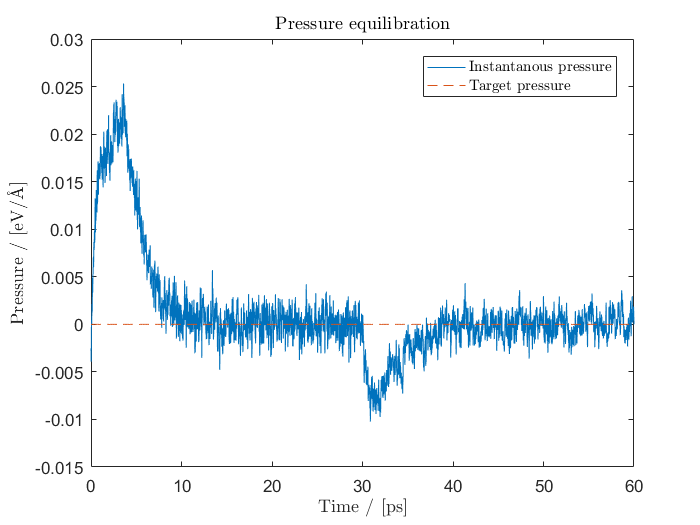
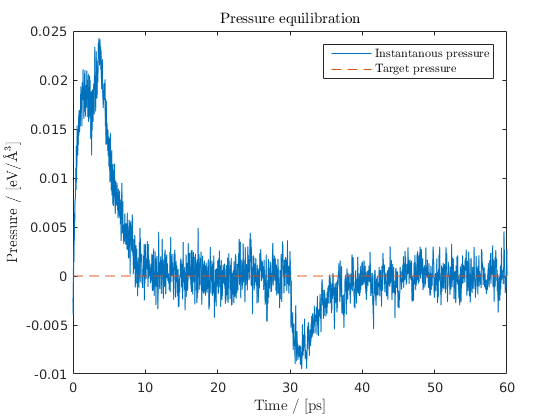
Worked on the report and fixedthe pressure plot unit on the y-axis in task4. Also fixed a minor bug in task4.

diff --git a/report/report.tex b/report/report.tex
@@ -125,10 +125,10 @@ After equilibration to 700$^\circ$ C and 1 atm the average temperature obtained 
 
 \noindent One interesting thermal property of a material is the heat capacity. We can calculate it from fluctuations in either the kinetic or the potential energies, as
 \begin{equation}
-C_v=\frac{3Nk_B}{2}\left[1-\frac{2}{3Nk_b^2T^2}\left\langle \left(\delta \epsilon_{kin}\right)^2  \right\rangle_{NVE} \right]^{-1} \text{or}
+C_v=\frac{3Nk_B}{2}\left[1-\frac{2}{3Nk_b^2T^2}\left\langle \left(\delta \epsilon_{kin}\right)^2  \right\rangle_{NVE} \right]^{-1}
 \label{eq:prob5-1}
 \end{equation}
-
+or
 \begin{equation}
 C_v=\frac{3Nk_B}{2}\left[1-\frac{2}{3Nk_b^2T^2}\left\langle \left(\delta \epsilon_{pot}\right)^2  \right\rangle_{NVE} \right]^{-1}.
 \label{eq:prob5-2}
@@ -147,7 +147,7 @@ From our MD simulations we obtained the values found in {Table \ref{tab:prob5}} 
 	\label{tab:prob5}
 \end{table}
 
-From experiments the heat capacity for aluminium in a solid is found to be $\unit[0.900]{J/g K}$ \cite{al_heat_solid} and for the liquid $\unit[1.18]{J/g K}$ \cite{al_heat_liquid}. For the chunk of 256 Al atoms in this simulation, this correspond to approx. $\unit[0.0644]{eV/K}$ and $\unit[0.0844]{eV/K}$. Looking at Table \ref{tab:prob5} above we see that this aligns very well to the values obtained through Eq. \eqref{eq:prob5-1} and \eqref{eq:prob5-2} in the simulation. However, we also notice that using the potential energy fluctuations have given more accurate results. We are not sure why this seems to be the case, but we have also noted that results can fluctuate some between runs which might be an explanation.
+From experiments the heat capacity for aluminium in a solid is found to be $\unit[0.900]{J/g K}$ \cite{al_heat_solid} and for the liquid $\unit[1.18]{J/g K}$ \cite{al_heat_liquid}. For the chunk of 256 Al atoms in this simulation, this corresponds to approx. $\unit[0.0644]{eV/K}$ and $\unit[0.0844]{eV/K}$. Looking at Table \ref{tab:prob5} above we see that this aligns very well to the values obtained through Eq. \eqref{eq:prob5-1} and \eqref{eq:prob5-2} in the simulation. However, we also notice that using the potential energy fluctuations have given more accurate results. We are not sure why this seems to be the case, but we have also noted that results can fluctuate somewhat between runs which might be an explanation.
 
 \section*{Problem 6}
 
@@ -155,7 +155,7 @@ Instead of using the fluctuations in the energies, the heat capacity can be calc
 \begin{equation}
 	C_V = \left( \frac{\partial E}{\partial T} \right)_{N,V}
 \end{equation}
-which we calculate by approximating it with a difference quota. To do this we first equilibrate the system temperature and pressure to the target values, i.e. 500$^\circ$ C or 700$^\circ$ C for the temperature and 1 atm for the pressure. Once this is done we equilibrate only the temperature to the target with a small difference $\Delta T$. After this second equilibration the system is simulated for some time and averages of the temperature and energy are computed. This is repeated for the same but negative $\Delta T$. Approximating the derivative with the difference quotient we obtain the results found in the table below. The parameter $\Delta T$ was chosen to be 5$^\circ$ C.
+which we calculate by approximating it with a difference quotient. To do this we first equilibrate the system temperature and pressure to the target values, i.e. 500$^\circ$ C or 700$^\circ$ C for the temperature and 1 atm for the pressure. Once this is done we equilibrate only the temperature to the target with a small difference $\Delta T$. After this second equilibration the system is simulated for some time and averages of the temperature and energy are computed. This is repeated for the same but negative $\Delta T$. Approximating the derivative with the difference quotient we obtain the results found in the table below. The parameter $\Delta T$ was chosen to be 5$^\circ$ C.
 
 \begin{table}[h!]
 	\centering	
@@ -184,7 +184,7 @@ The radial distribution function is a measure of the radial distribution of the 
 \label{fig:radial}
 \end{figure}
 
-Normally the radial distribution would converge to unity as the radius tends to infinity as over large distances the atoms are almost randomly distributed, this is not something we can see in out figure and is not expected. This is due to that our system is limited in size and we therefore can't find any particles for all distances as we have already counted that particle in the opposite direction.
+Normally the radial distribution would converge to unity as the radius tends to infinity as over large distances the atoms are almost randomly distributed. This is not something we can see in out figure and is not expected. This is due to that our system is limited in size and we therefore can't find any particles for all distances as we have already counted that particle in the opposite direction.
 
 With Matlab we find that the first local minimum is localized at $r_m = 3.7797$, giving us the coordination number $I(r_m) \approx 12.928$. The expected coordination number for an fcc structure is 12 \cite{al_coordination_nbr}, but our result is slightly higher. If the system was solid we would expect a result closer to 12.
 
@@ -195,23 +195,20 @@ One way to see that the crystal is properly melted is by studying the scattering
 \begin{equation}
 S(\mathbf{q})=\frac{1}{N}\left<|\sum_{i=1}^{N}e^{i\mathbf{q}\cdot \mathbf{r_i}(t)}|^2\right>\cite{lecnotes},
 \end{equation}
-
 where $\mathbf{q}$ are the reciprocal vectors and $r_i(t)$ is the trajectories of the particles. The reciprocal lattice is initialized on a grid with side-length $2\pi/L$, where $L$ is the cell length, so that the reciprocal lattice can be written as,
-$$
+\begin{equation}
 	\mathbf{q}=\frac{2\pi}{L}(n_x,n_y,n_z),
-$$
-
-where $n_x$, $n_y$ and $n_z$ are some integers. For our simulation we use $n_x=n_y=n_z=\pm40$, so the lattice points are some combination of $3$ numbers between $-40$ to $40$.
+\end{equation}
+where $n_x$, $n_y$ and $n_z$ are some integers. For our simulation we use $n_x, n_y, n_z \in [-40, 40]$, so the lattice points are some combination of $3$ numbers between $-40$ to $40$.
 
 The results of this simulation can be seen in (Fig.~\ref{fig:StaticStructure}) where we only consider the length of the reciprocal vectors, not their direction, i.e. we have plotted the spherical mean.
 
-In a crystalline solid the expression given above will only contain delta-function distribution contributions for the reciprocal vectors. But for a liquid we have a continuous contribution which depend on the radial distribution seen in Problem 7. Using this distribution we can write the form factor as,
-
+In a crystalline solid the expression given above will only contain delta-function distribution contributions for the reciprocal vectors. But for a liquid we have a continuous contribution which depend on the radial distribution seen in Problem 7. Using this distribution we can write the form factor as
 \begin{equation}
 S(q)= 1+ 4\pi n \int r^2\left[g(r)-1\right]\frac{\sin{qr}}{qr}dr.
 \end{equation}
 
-Direct evaluation of this integral, for the same $q$ values as the simulation, using only half maximum distance in (Fig. \ref{fig:radial}) in the radial integral to not get boundary condition problems, gives a very similar result to the $q-$grid evaluation as seen in (Fig.~\ref{fig:StaticStructure}).
+The result of direct evaluation of this integral, for the same $q$ values as in the simulation, can be found in Fig.~\ref{fig:radial} (left). Only half of the maximum distance is used in the radial integral to not get boundary condition problems. This gives a very similar result to the $q$-grid evaluation as seen in Fig.~\ref{fig:StaticStructure} (right).
 
 \begin{figure}[H]
     \centering
@@ -232,7 +229,7 @@ Direct evaluation of this integral, for the same $q$ values as the simulation, u
 
 \vfill
 \bibliography{references}
-\bibliographystyle{plain} %TODO set bibstyle
+\bibliographystyle{plain}
 
 \newpage
 \appendix
@@ -255,12 +252,16 @@ Direct evaluation of this integral, for the same $q$ values as the simulation, u
 
 \subsection{\texttt{Task7/MD\_main.c}}
 \lstinputlisting[language=c, numbers=left]{../code/Task7/MD_main.c}
+\subsection{\texttt{Task7/plot\_histogram.m}}
 \lstinputlisting[language=matlab,numbers=left]{../code/Task7/plot_histogram.m}
 
 \subsection{\texttt{Task8/MD\_main.c}}
 \lstinputlisting[language=c, numbers=left]{../code/Task8/MD_main.c}
+\subsection{\texttt{Task8/plot\_reciprocal.m}}
 \lstinputlisting[language=matlab,numbers=left]{../code/Task8/plot_reciprocal.m}
+\subsection{\texttt{Task8/plot\_integral.m}}
 \lstinputlisting[language=matlab,numbers=left]{../code/Task8/plot_integral.m}
+\subsection{\texttt{Task8/alpotential.m}}
 \lstinputlisting[language=c, numbers=left]{../code/Task8/alpotential.c}
 
 \end{document}

diff --git a/code/Task4/MD_main.c b/code/Task4/MD_main.c
@@ -7,7 +7,7 @@
 #include "initfcc.h"
 #include "alpotential.h"
 #define nbr_of_particles 256
-#define nbr_of_timesteps 1e4
+#define nbr_of_timesteps 10000
 #define nbr_of_timesteps_eq 6000
 #define nbr_of_dimensions 3
 
@@ -264,8 +264,8 @@ int main()
     }
     fclose(file);
 
-    printf("Final Temperature: %e\n", temperature_avg[nbr_of_timesteps] );
-    printf("Final Pressure: %e\n", pressure_avg[nbr_of_timesteps] );
+    printf("Final Temperature: %e\n", temperature_avg[nbr_of_timesteps-1] );
+    printf("Final Pressure: %e\n", pressure_avg[nbr_of_timesteps-1] );
 
     free(energy_kin);		energy_kin = NULL;
     free(energy_pot); 		energy_pot = NULL;

diff --git a/code/Task4/plot_pressure.m b/code/Task4/plot_pressure.m
@@ -17,6 +17,6 @@ legend({'Instantanous pressure','Target pressure'},'interpreter','latex','locati
 % 
 % labels
 xlabel('Time / [ps]','interpreter','latex')
-ylabel('Pressure / [eV/\AA]','interpreter','latex')
+ylabel('Pressure / [eV/\AA$^3$]','interpreter','latex')
 % title
 title('Pressure equilibration','interpreter','latex')
